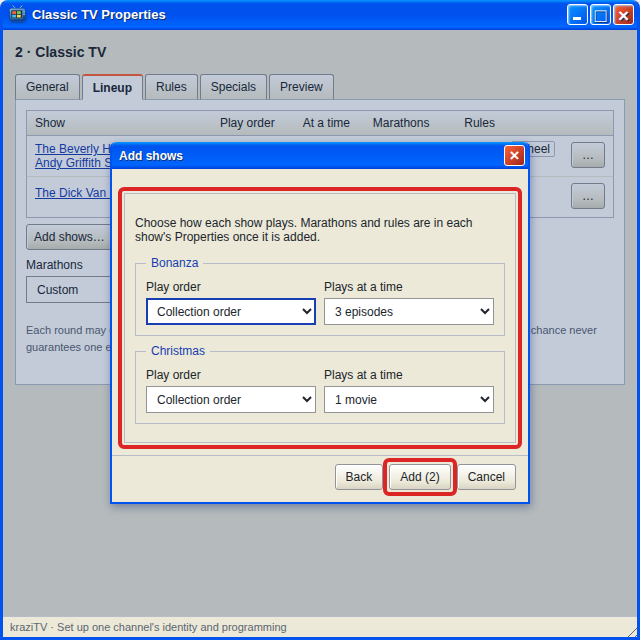
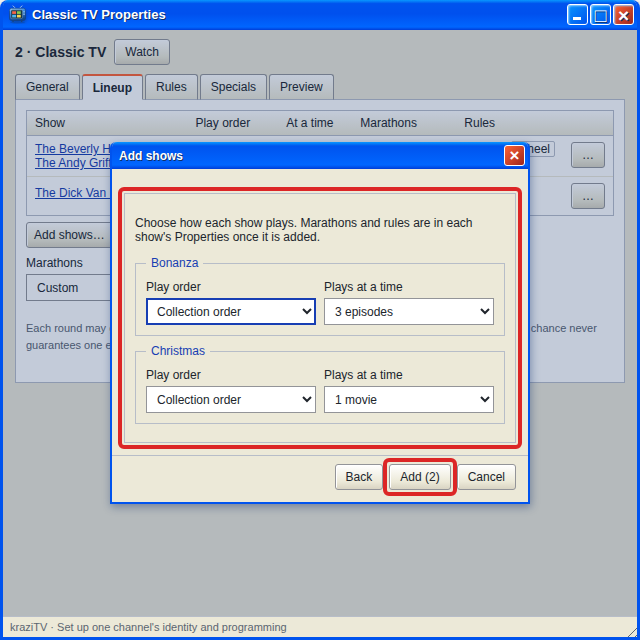
POLISH-053: CONTRIBUTING, statuses, and the wiki refresh
Map the web app's folders in CONTRIBUTING beside the server's and name
wiki/ under Where Things Are Written Down with the same-PR rule and the
screenshot script. Set spec 0005 and the release-polish feature to
Implemented, with the corrections the overall review listed. Close the
wiki text gaps (Watch from Channel Properties and the guide card, the
Preview's off-air answers, Live Monitor's status bar) and retake the wiki
and README screenshots from the demo library, shooting Up Next on a random
show and the airing program's card.

diff --git a/docs/specs/features/004-release-polish/specs/0005-third-polish-pass.md b/docs/specs/features/004-release-polish/specs/0005-third-polish-pass.md
@@ -1,6 +1,6 @@
 # Spec 0005: Third Polish Pass
 
-Status: In Development
+Status: Implemented
 
 ## Intent
 
@@ -48,15 +48,16 @@ programming behavior.
   Try again in a moment."), `programming_assignment_not_found` ("That show is
   no longer in the lineup. Refresh and pick again."), and
   `media_root_removal_pending` ("This folder was deleted while a channel was
-  still airing from it. Add it again after 9:00 PM.", with the time in the
-  programming timezone, never an ISO timestamp). The folder browser's path
-  refusal carries a field so the existing path sentence applies.
+  still airing from it. Add it again after 11/5/2026, 9:00 PM.", with the
+  date and time in the browser's local time like every other time on screen,
+  never an ISO timestamp). The folder browser's path refusal carries a field
+  so the existing path sentence applies.
 
 ### Lineup and dialogs
 
-- In the Lineup table, Play order and At a time stay on one line at the size
-  Channel Properties opens at; the Show column gives instead. Marathons and
-  Rules take no more room than their content needs.
+- In the Lineup table, Play order, At a time, and Marathons stay on one line
+  at the size Channel Properties opens at; the Show and Rules columns wrap
+  instead.
 - A dialog paragraph that prints a path or a name breaks it rather than
   scrolling the dialog sideways; the Delete media root and "Scan it now?"
   sentences stay readable for a scene-named folder.
@@ -69,8 +70,8 @@ programming behavior.
 - The desktop icons move with the arrow keys as Start's items do (Up and
   Down, Home and End).
 - A channel or collection name longer than 120 characters is refused by the
-  server with the too-long words the web already has, as show and rule names
-  are refused at 80 (decision 18).
+  server, and the web's too-long sentence names each cap: 120 for a channel
+  or collection, 80 for a show (decision 18).
 
 ### First-run shortcuts
 
@@ -91,8 +92,8 @@ minutes and a contributor can ship in a day. All seven are in scope
   channel select or the volume slider. Keyboard-driven, so nothing animates
   (spec 0008).
 - Live Monitor opens on the channel it last showed, or the first enabled
-  channel, instead of "Choose a channel", using the same browser memory TV
-  uses for its last channel.
+  channel, instead of "Choose a channel", remembering its own channel
+  beside TV's last channel in the browser's memory.
 - The Start menu header shows the account's picture and name, as XP's did.
 - Removing the TMDB key asks first, as every other removal does: "Remove the
   TMDB key? Matches already made stay; new lookups stop until a key is set."
@@ -119,10 +120,10 @@ minutes and a contributor can ship in a day. All seven are in scope
 
 ### Docs
 
-- The wiki pages for Collections (Discover on both tabs), Channel Properties
-  and the Program Guide (Watch), TV (keys), Live Monitor (remembered
-  channel), Account Settings (removal confirmation), and Media Library (the
-  field label and the empty-scan sentence) change with their screens.
+- The wiki pages for Collections (Discover on both tabs), My Channels,
+  First-Run, and the Program Guide (Watch), TV (keys), Live Monitor
+  (remembered channel), Set up TMDB (removal confirmation), and Media Library
+  (the field label and the empty-scan sentence) change with their screens.
 - This spec and the feature README say Implemented once the targets hold.
 
 ## kraziTV Check
@@ -152,7 +153,7 @@ instead of re-deciding them.
   renders the Up Next tab for a random show and reads **Reshuffle…** and its
   question.
 - A jsdom test for each of the five refusal codes reads its owner sentence,
-  with the removal-pending time in the programming timezone.
+  with the removal-pending time in the browser's local time.
 - Grepping `apps/web/src` for "Absolute" and "channel state" in user-visible
   strings finds nothing; spec 0002's grep target still holds.
 - A jsdom test renders a Lineup row and asserts Play order and At a time have

diff --git a/CONTRIBUTING.md b/CONTRIBUTING.md
@@ -143,6 +143,31 @@ The server keeps one folder per domain under `apps/server/src/`:
 | `database/`                                                       | The schema, migrations, and write authority                             |
 | `config/`, `http/`, `terminal/`                                   | Settings, shared HTTP error and request shapes, and the password prompt |
 
+The web app keeps one folder per desktop program under `apps/web/src/`,
+beside the shell and the pieces programs share. `app.tsx` chooses between
+the logon screen and the desktop, and `main.tsx` mounts it.
+
+| Folder                                     | What it owns                                                                          |
+| ------------------------------------------ | ------------------------------------------------------------------------------------- |
+| `desktop/`                                 | The desktop shell and its chrome: windows, the taskbar, Start, and the program list   |
+| `channels/`                                | My Channels and each channel's Properties window                                      |
+| `collections/`                             | Collections and each collection's Properties window                                   |
+| `media-library/`                           | Media Library and its TMDB matching dialogs                                           |
+| `program-guide/`, `tv/`, `live-monitor/`   | Program Guide, TV, and Live Monitor                                                   |
+| `plex-setup/`, `account-settings/`         | Plex Setup and Account Settings                                                       |
+| `logon/`                                   | The logon screen and first-run setup                                                  |
+| `program-host/`                            | Puts each program in its window; the one way a program opens another                  |
+| `controls/`                                | Shared controls: dialogs, menus, tabs, pagers, and time and number formatting         |
+| `http/`                                    | The API client, request and response shapes, and the words for server refusals        |
+| `channel-observation/`                     | Now-and-next and off-air words shared by My Channels, Live Monitor, and TV            |
+| `catalog-filter/`, `catalog-options/`      | The catalog Filter dialog, and the series, franchise, tag, and genre options it lists |
+| `collection-types/`, `media-availability/` | Collection type and media status labels shared across programs                        |
+| `media-search/`                            | The media and collection pickers                                                      |
+| `account-fields/`, `password-check/`       | Name and password checks shared by setup, the logon screen, and Account Settings      |
+| `tmdb-reminder/`                           | The tray balloon that asks the owner to set up TMDB                                   |
+| `branding/`                                | Program icons, account pictures, and attributions                                     |
+| `testing/`                                 | Test doubles and fixtures                                                             |
+
 Every package and app lays out `src/` the same way; the
 [`AGENTS.md` principles](AGENTS.md#governing-engineering-principles) give the
 rules, and `npm run audit:strict` checks them.
@@ -159,6 +184,10 @@ rules, and `npm run audit:strict` checks them.
   order and ticket status.
 - [`docs/knowledge_base/`](docs/knowledge_base/README.md): setup, research,
   and operating notes.
+- [`wiki/`](wiki/Home.md): how owners install and use kraziTV, published to
+  the GitHub wiki from `main`. A change an owner would see on screen updates
+  its page in the same PR; screenshots come from
+  `scripts/live-app/wiki-screenshots.mjs` against the demo library.
 
 ## License
 

diff --git a/docs/implementation_plan/004-release-polish/0005-third-polish-pass.md b/docs/implementation_plan/004-release-polish/0005-third-polish-pass.md
@@ -2,7 +2,7 @@
 
 <!-- plan-progress:start: generated by `npm run plan:status` from ticket Status blocks; do not edit -->
 
-Progress: 14 of 15 tickets complete.
+Progress: 15 of 15 tickets complete.
 
 | Ticket     | Title                                                                | Status                 |
 | ---------- | -------------------------------------------------------------------- | ---------------------- |
@@ -20,7 +20,7 @@ Progress: 14 of 15 tickets complete.
 | POLISH-050 | The stretch problem carries a kind                                   | Complete on 2026-11-05 |
 | POLISH-051 | A failed TMDB lookup carries a reason kind                           | Complete on 2026-11-05 |
 | POLISH-052 | Drop the scan scenario's narrow pass; name every file in E33 and E39 | Complete on 2026-11-05 |
-| POLISH-053 | CONTRIBUTING, statuses, and the wiki refresh                         | Open                   |
+| POLISH-053 | CONTRIBUTING, statuses, and the wiki refresh                         | Complete on 2026-11-05 |
 
 <!-- plan-progress:end -->
 
@@ -578,6 +578,13 @@ item; the browser job in CI passes with two scan passes.
 **Docs impact**: None.
 
 ### POLISH-053: CONTRIBUTING, statuses, and the wiki refresh
+
+**Status**
+
+Complete on 2026-11-05. CONTRIBUTING maps the web app's folders and names
+`wiki/` with the same-PR rule, spec 0005 and the feature README say
+Implemented, and the wiki and README screenshots were retaken from the demo
+library; nothing deferred.
 
 **Goal**: A first contributor finds the web map and the wiki rule in
 CONTRIBUTING, every doc that lagged this pass is current, and the wiki

diff --git a/wiki/The-Desktop.md b/wiki/The-Desktop.md
@@ -59,16 +59,15 @@ The system tray on the right holds:
 
 ## Start
 
-Start opens on your account's picture and name, as XP's did. Change
-either in [Account Settings](Account-Settings). Below them, the Start menu
-lists every program and has two more entries: **Source
-code**, which opens kraziTV's GitHub page, and **Log Off**, which asks once
-and then ends your session in this browser. Once Start is open, the arrow
-keys move through it as they did on XP: Up and Down along a column, Home
-and End to its first and last program, Left and Right between the two
-columns, and Enter opens the highlighted program.
-There is no Turn Off; kraziTV keeps broadcasting no matter what the desktop
-is doing.
+Start opens on your account's picture and name, as XP's did. Change either
+in [Account Settings](Account-Settings). Below them, the Start menu lists
+every program and has two more entries: **Source code**, which opens
+kraziTV's GitHub page, and **Log Off**, which asks once and then ends your
+session in this browser. Once Start is open, the arrow keys move through it
+as they did on XP: Up and Down along a column, Home and End to its first
+and last program, Left and Right between the two columns, and Enter opens
+the highlighted program. There is no Turn Off; kraziTV keeps broadcasting
+no matter what the desktop is doing.
 
 ---
 

diff --git a/wiki/My-Channels.md b/wiki/My-Channels.md
@@ -114,11 +114,13 @@ Preview lists the next ten or so turns in order, with each show, how much
 it plays, and how long that takes. A turn already on the air reads
 **continues at** the time its next program starts, with what it has left,
 such as "1 more episode". When rules are involved it says which rule chose
-each turn. A show that cannot air, because its collection is
-empty or its files are missing, is listed as skipped with the reason. When
-nothing at all would air, as on a channel whose only shows wait for a rule,
-Preview says so and points at the Lineup and Rules tabs instead of showing
-an empty list.
+each turn. A show that cannot air, because its collection is empty or its
+files are missing, is listed as skipped with the reason. When nothing at
+all would air, Preview says why instead of showing an empty list. A channel
+with no shows yet is told to add shows on the Lineup tab. A channel whose
+shows have no media that can air (missing or too short), or whose only
+shows wait for a rule, is pointed at its shows' media and its Lineup and
+Rules tabs.
 
 ![The Preview tab](images/channel-preview.png)
 

diff --git a/docs/implementation_plan/README.md b/docs/implementation_plan/README.md
@@ -69,7 +69,7 @@ at the top of each plan are generated from ticket Status blocks by
 - [Release Polish Spec 0002 Implementation Plan: Owner-Facing Words](004-release-polish/0002-owner-facing-words.md) - 6 of 6 tickets complete
 - [Release Polish Spec 0003 Implementation Plan: Release Readiness](004-release-polish/0003-release-readiness.md) - 11 of 11 tickets complete
 - [Release Polish Spec 0004 Implementation Plan: Second Polish Pass](004-release-polish/0004-second-polish-pass.md) - 13 of 13 tickets complete
-- [Release Polish Spec 0005 Implementation Plan: Third Polish Pass](004-release-polish/0005-third-polish-pass.md) - 14 of 15 tickets complete
+- [Release Polish Spec 0005 Implementation Plan: Third Polish Pass](004-release-polish/0005-third-polish-pass.md) - 15 of 15 tickets complete
 
 <!-- plan-index:end -->
 

diff --git a/wiki/Live-Monitor.md b/wiki/Live-Monitor.md
@@ -1,9 +1,10 @@
 # Live Monitor
 
-Live Monitor, which the desktop and Start describe as **See what each
-channel is airing right now**, answers one question: what is this channel
-doing right now? It shows what is on the air, how far into it the channel
-is, when it ends, and what follows, and refreshes every ten seconds.
+Live Monitor, which the desktop, Start, and its status bar describe as
+**See what each channel is airing right now**, answers one question: what
+is this channel doing right now? It shows what is on the air, how far into
+it the channel is, when it ends, and what follows, and refreshes every ten
+seconds.
 
 Live Monitor opens on the channel you chose in it last time, or on your
 first enabled channel the first time. Pick another from **Channel** to check

diff --git a/wiki/TV.md b/wiki/TV.md
@@ -16,8 +16,10 @@ or **↓** to change channel, **M** to mute or unmute, and **F** to go full
 screen or come back. They leave the channel dropdown and the volume slider
 alone, so those keep working as usual.
 
-TV opens on the channel you watched last. **Watch** in My Channels and a
-channel's name in the Program Guide open TV on that channel.
+TV opens on the channel you watched last. **Watch** in My Channels or at
+the top of a channel's Properties, **Watch** on the card of a program on the
+air in the Program Guide, and a channel's name in the guide all open TV on
+that channel.
 
 Like every viewer, TV joins about ten seconds behind the schedule; see
 [Connect Plex](Connect-Plex#watch). There is no pause or rewind. This is

diff --git a/wiki/Play-Order.md b/wiki/Play-Order.md
@@ -29,8 +29,7 @@ the old place is still there.
 
 **Random** is not truly random: kraziTV draws each pick from a fixed
 sequence for that channel and collection, so the Up Next tab can show you
-the upcoming picks. On a random show the Up Next tab's **Reshuffle…**
-starts the picks over from the start of that same sequence.
+the upcoming picks. Its **Reshuffle…** starts the picks over; see below.
 
 ![A random show's Up Next tab, listing its upcoming picks](images/show-properties-up-next.png)
 

diff --git a/wiki/Program-Guide.md b/wiki/Program-Guide.md
@@ -7,8 +7,8 @@ line marks now.
 ![The Program Guide](images/program-guide.png)
 
 - **Click a program** to see its details: episode, air time, genres, poster,
-  and description. While the program is on the air, its card also offers
-  **Watch**, which opens the channel in [TV](TV).
+  and description. While the program is on the air on an enabled channel,
+  its card also offers **Watch**, which opens the channel in [TV](TV).
 
   ![A program's card](images/program-card.png)
 

diff --git a/wiki/First-Run.md b/wiki/First-Run.md
@@ -71,8 +71,9 @@ That is it. The channel is on the air, taking turns between its shows.
 
 ## 6. Watch it
 
-Open **Program Guide** to see what the channel will air today. Click the
-channel's name to open **TV** and watch it in the browser.
+Click **Watch** at the top of the channel's Properties window to see it in
+**TV**, right in the browser. Or open **Program Guide** to see what the
+channel will air today, and click the channel's name there.
 
 ---
 

diff --git a/docs/specs/features/004-release-polish/README.md b/docs/specs/features/004-release-polish/README.md
@@ -1,6 +1,6 @@
 # Release Polish Feature
 
-Status: In Development
+Status: Implemented
 
 This feature takes kraziTV from "works" to "a non-technical first-time user,
 with minimal prompting, builds channels and enjoys it", inside the Windows XP
